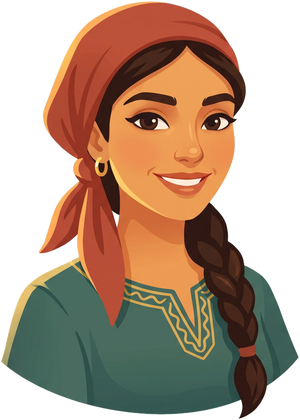
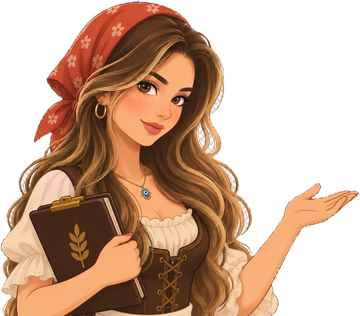
Swap in the new Defne artwork and make her walk-through readable
The art came in as a screenshot of a transparency preview, so the
checkerboard was baked into the pixels and there was no alpha to use. It is
keyed out on neutrality rather than brightness: the checker squares measure
a colour spread of 3, while even her white apron measures 75, so a
brightness test would have eaten the garment. The artwork's own
anti-aliased edge had already been blended onto that checkerboard before it
reached us, which no colour test can separate, so the alpha is eroded to
drop it — otherwise she is ringed in white on the dark card. Cropped below
the ledger, since the skirt and satchel are a smudge at the size she is
drawn, and the presenting hand and the ledger are the half worth keeping.

The walk-through itself was seven paragraphs. Each beat now leads with its
subject, so a player who knows what a market is can move on without
reading the sentence; the body is cut to two short ones; and the single
thing to actually do is lifted out and set in green under it, instead of
sitting in the middle of a paragraph. The dots that used to carry progress
read as decoration, so they are replaced by a plain "4 / 7" — a count says
how much is left outright.

Three new tests hold the shape: every title, line and instruction resolves
in both languages, no body creeps back over a paragraph's length, and
every beat after the welcome has something to do.

Verified: 224 tests, smoke clean in both languages on a fresh install and
a restored save.
[…]

diff --git a/town-economy/src/i18n/strings.ts b/town-economy/src/i18n/strings.ts
@@ -491,20 +491,28 @@ export const STRINGS = {
       next: "Devam",
       done: "Hadi başlayalım",
       skip: "Geç",
+      progress: "{current} / {total}",
+      greetTitle: "Hoş geldin!",
       greet:
-        "Hoş geldin, yeni başkanımız! Ben Defne, şu pazarın esnafıyım. Kasaba bugünden sonra sana emanet — gel, bir tur atalım.",
-      market:
-        "İşte Piyasa. Kasabanın bütün malları burada durur ve fiyatları her gün oynar. İşin özü tek cümle: ucuzken al.",
-      prices:
-        "Her malın yanındaki çizgi fiyatın nereye gittiğini söyler. Yeşilse yükseliyor, kırmızıysa düşüyor. Düşene bakacaksın.",
-      inventory:
-        "Aldıkların Envanter'de birikir. Kaça aldığını burada görürsün; pahalıyken satarsan aradaki fark senin kârın olur.",
-      inflation:
-        "Yukarıdaki enflasyon her gün her şeyi biraz pahalılaştırır. Kasada duran para bekledikçe erir — asıl rakibin o.",
-      trade:
-        "Kasaban büyüyünce burası, Ticaret açılır. Kervanlarını başka şehirlere yollar, oradaki yüksek fiyatlardan kazanırsın.",
-      handoff:
-        "Gerisini yaparak öğrenirsin. Ekrandaki İlk Adımlar seni tek tek yönlendirecek. Hadi, ilk alışverişini yap — ben buralardayım.",
+        "Ben Defne, şu pazarın esnafıyım. Kasaba bugünden sonra sana emanet. Gel, önce sana burayı göstereyim.",
+      marketTitle: "Piyasa",
+      market: "Kasabanın bütün malları burada durur ve fiyatları her gün değişir.",
+      marketTip: "Ucuzken al.",
+      pricesTitle: "Fiyatı okumak",
+      prices: "Her malın yanındaki çizgi fiyatın yönünü gösterir. Yeşil yükseliyor, kırmızı düşüyor demek.",
+      pricesTip: "Kırmızıya bak — o mal ucuzlamış demektir.",
+      inventoryTitle: "Envanter",
+      inventory: "Aldığın her şey burada birikir. Kaça aldığını da burada görürsün.",
+      inventoryTip: "Pahalıyken sat. Aradaki fark senin kârın.",
+      inflationTitle: "Enflasyon",
+      inflation: "En üstteki sayı. Her gün her şeyi biraz pahalılaştırır, kasanda duran para değer kaybeder.",
+      inflationTip: "Parayı bekletme, mala çevir.",
+      tradeTitle: "Ticaret",
+      trade: "Kasaban büyüyünce burası açılır. Kervanlarını başka şehirlere yollarsın.",
+      tradeTip: "Burada ucuza al, orada pahalıya sat.",
+      handoffTitle: "Sıra sende",
+      handoff: "Ekranın üstündeki İlk Adımlar seni tek tek yönlendirecek. Ben buralardayım.",
+      handoffTip: "Hadi, ilk alışverişini yap.",
     },
     tutorial: {
       next: "İleri",
@@ -1645,20 +1653,29 @@ export const STRINGS = {
       next: "Go on",
       done: "Let's begin",
       skip: "Skip",
+      progress: "{current} / {total}",
+      greetTitle: "Welcome!",
       greet:
-        "Welcome, our new mayor! I'm Defne, I keep a stall in the market. The town is yours from today — come, let me show you around.",
-      market:
-        "This is the Market. Every good in town sits here, and the prices move every day. The whole job in one sentence: buy while it's cheap.",
-      prices:
-        "The line beside each good tells you where its price is heading. Green is climbing, red is falling. Falling is the one you want.",
-      inventory:
-        "What you buy piles up in your Inventory. You can see what you paid here — sell it while it's dear, and the difference is yours.",
+        "I'm Defne, I keep a stall in the market. The town is yours from today. Come, let me show you around first.",
+      marketTitle: "The Market",
+      market: "Every good in town sits here, and the prices change every day.",
+      marketTip: "Buy while it's cheap.",
+      pricesTitle: "Reading a price",
+      prices: "The line beside each good shows which way its price is going. Green is up, red is down.",
+      pricesTip: "Look for red — that good just got cheaper.",
+      inventoryTitle: "Your Inventory",
+      inventory: "Everything you buy piles up here, along with what you paid for it.",
+      inventoryTip: "Sell while it's dear. The difference is your profit.",
+      inflationTitle: "Inflation",
       inflation:
-        "That inflation figure up top makes everything a little dearer each day. Money left sitting in the treasury melts away — that's your real rival.",
-      trade:
-        "Once your town grows, this opens up: Trade. You send caravans to other cities and earn on the higher prices there.",
-      handoff:
-        "The rest you'll learn by doing. First Steps on screen will walk you through it one at a time. Go on, make your first purchase — I'll be around.",
+        "The number at the very top. It makes everything a little dearer each day, and cash in your treasury loses value.",
+      inflationTip: "Don't sit on money — turn it into goods.",
+      tradeTitle: "Trade",
+      trade: "This opens as your town grows. You send caravans out to other cities.",
+      tradeTip: "Buy cheap here, sell dear there.",
+      handoffTitle: "Your turn",
+      handoff: "First Steps at the top of the screen will walk you through it one at a time. I'll be around.",
+      handoffTip: "Go on — make your first purchase.",
     },
     tutorial: {
       next: "Next",

diff --git a/town-economy/src/components/MentorCoach.tsx b/town-economy/src/components/MentorCoach.tsx
@@ -74,23 +74,40 @@ export function MentorCoach({ onNext, onSkip }: Props) {
 
         <View style={styles.row}>
           <View style={styles.portrait}>
-            <MentorPortrait size={84} />
+            <MentorPortrait size={112} />
           </View>
           <View style={styles.speech}>
-            <Text style={styles.name}>
-              {t("mentor.name")} <Text style={styles.role}>· {t("mentor.role")}</Text>
-            </Text>
+            {/* Who is talking, and how much of this is left. The dots that
+                used to carry progress were readable as decoration and not
+                as "two more of these" — a count says it outright. */}
+            <View style={styles.nameRow}>
+              <Text style={styles.name}>
+                {t("mentor.name")} <Text style={styles.role}>· {t("mentor.role")}</Text>
+              </Text>
+              <Text style={styles.progress}>
+                {t("mentor.progress", { current: index + 1, total: MENTOR_STEPS.length })}
+              </Text>
+            </View>
+
+            {/* Subject first. A player who already knows what a market is can
+                see this beat is about the market and press on without
+                reading the sentence. */}
+            <Text style={styles.title}>{t(step.titleKey)}</Text>
             <Text style={styles.text}>{t(step.textKey)}</Text>
+
+            {/* And the one thing to actually do, lifted out of the prose.
+                Every beat used to end with its instruction buried in the
+                middle of a paragraph. */}
+            {step.tipKey && (
+              <View style={styles.tipRow}>
+                <Text style={styles.tipMark}>▸</Text>
+                <Text style={styles.tip}>{t(step.tipKey)}</Text>
+              </View>
+            )}
           </View>
         </View>
 
         <View style={styles.footer}>
-          <View style={styles.dots}>
-            {MENTOR_STEPS.map((s, i) => (
-              <View key={s.id} style={[styles.dot, i === index && styles.dotActive]} />
-            ))}
-          </View>
-
           {!isLast && (
             <ScalePressable onPress={onSkip} style={styles.skipBtn} scaleTo={0.96}>
               <Text style={styles.skipText}>{t("mentor.skip")}</Text>
@@ -119,21 +136,36 @@ const styles = StyleSheet.create({
   row: { flexDirection: "row", alignItems: "flex-start" },
   // The portrait is bottom-cropped by the card's own overflow, which reads
   // as her leaning in over the edge rather than a sticker pasted on.
-  portrait: { marginRight: SPACING.sm + 2, marginTop: -2 },
+  portrait: { marginRight: SPACING.sm, marginTop: -2 },
   speech: { flex: 1 },
+  nameRow: { flexDirection: "row", alignItems: "baseline", justifyContent: "space-between" },
   name: {
     color: COLORS.accent,
-    fontSize: TYPE.label,
+    fontSize: TYPE.caption,
     fontWeight: WEIGHT.black,
     fontFamily: FONT.black,
-    marginBottom: 3,
   },
   role: { color: COLORS.textMuted, fontWeight: WEIGHT.regular, fontFamily: FONT.medium },
-  text: { color: COLORS.textPrimary, fontSize: TYPE.body, lineHeight: 19 },
-  footer: { flexDirection: "row", alignItems: "center", marginTop: SPACING.md },
-  dots: { flexDirection: "row", alignItems: "center", gap: 5, flex: 1 },
-  dot: { width: 6, height: 6, borderRadius: 3, backgroundColor: "#4a4032" },
-  dotActive: { backgroundColor: COLORS.accent, width: 16 },
+  progress: { color: COLORS.textMuted, fontSize: TYPE.micro, fontFamily: FONT.medium },
+  title: {
+    color: COLORS.textPrimary,
+    fontSize: TYPE.heading,
+    fontFamily: FONT.display,
+    marginTop: 4,
+    marginBottom: 3,
+  },
+  text: { color: COLORS.textMuted, fontSize: TYPE.label, lineHeight: 18 },
+  tipRow: { flexDirection: "row", alignItems: "flex-start", marginTop: 7 },
+  tipMark: { color: COLORS.positive, fontSize: TYPE.label, lineHeight: 18, marginRight: 5 },
+  tip: {
+    flex: 1,
+    color: COLORS.positive,
+    fontSize: TYPE.label,
+    lineHeight: 18,
+    fontWeight: WEIGHT.bold,
+    fontFamily: FONT.bold,
+  },
+  footer: { flexDirection: "row", alignItems: "center", justifyContent: "flex-end", marginTop: SPACING.sm },
   skipBtn: { paddingVertical: 8, paddingHorizontal: SPACING.sm, marginRight: SPACING.xs },
   skipText: { color: COLORS.textMuted, fontSize: TYPE.caption, fontFamily: FONT.medium },
   nextBtn: {

diff --git a/town-economy/src/economy/mentor.ts b/town-economy/src/economy/mentor.ts
@@ -2,8 +2,14 @@ import { ScreenId } from "../components/TabBar";
 
 export interface MentorStep {
   id: string;
+  /** the one-or-two word subject of this beat, so a player can see what it
+   * is about before reading a word of it */
+  titleKey: string;
   /** what she says, in the player's language */
   textKey: string;
+  /** the single thing to actually do, pulled out of the prose and set apart.
+   * Left out of the welcome and wherever there is nothing yet to act on. */
+  tipKey?: string;
   /** the tab this beat is about. The tour walks there itself, so the player
    * is looking at the real screen while she describes it — nothing is
    * explained against a picture of the game. Left out when the beat is
@@ -25,13 +31,48 @@ export interface MentorStep {
  * player cannot open yet is the thing this replaced.
  */
 export const MENTOR_STEPS: MentorStep[] = [
-  { id: "greet", textKey: "mentor.greet" },
-  { id: "market", textKey: "mentor.market", screen: "market" },
-  { id: "prices", textKey: "mentor.prices", screen: "market" },
-  { id: "inventory", textKey: "mentor.inventory", screen: "inventory" },
-  { id: "inflation", textKey: "mentor.inflation" },
-  { id: "trade", textKey: "mentor.trade", screen: "trade" },
-  { id: "handoff", textKey: "mentor.handoff", screen: "market" },
+  { id: "greet", titleKey: "mentor.greetTitle", textKey: "mentor.greet" },
+  {
+    id: "market",
+    titleKey: "mentor.marketTitle",
+    textKey: "mentor.market",
+    tipKey: "mentor.marketTip",
+    screen: "market",
+  },
+  {
+    id: "prices",
+    titleKey: "mentor.pricesTitle",
+    textKey: "mentor.prices",
+    tipKey: "mentor.pricesTip",
+    screen: "market",
+  },
+  {
+    id: "inventory",
+    titleKey: "mentor.inventoryTitle",
+    textKey: "mentor.inventory",
+    tipKey: "mentor.inventoryTip",
+    screen: "inventory",
+  },
+  {
+    id: "inflation",
+    titleKey: "mentor.inflationTitle",
+    textKey: "mentor.inflation",
+    tipKey: "mentor.inflationTip",
+  },
+  {
+    id: "trade",
+    titleKey: "mentor.tradeTitle",
+    textKey: "mentor.trade",
+    tipKey: "mentor.tradeTip",
+    screen: "trade",
+  },
+  {
+    id: "handoff",
+    titleKey: "mentor.handoffTitle",
+    textKey: "mentor.handoff",
+    tipKey: "mentor.handoffTip",
+    screen: "market",
+  },
 ];
 
 export const MENTOR_DONE = MENTOR_STEPS.length;

diff --git a/town-economy/src/economy/__tests__/interruptions.test.ts b/town-economy/src/economy/__tests__/interruptions.test.ts
@@ -112,14 +112,35 @@ describe("mentor script", () => {
   it("resolves every line in both languages", () => {
     for (const lang of LANGS) {
       for (const step of MENTOR_STEPS) {
-        const line = t(lang, step.textKey);
-        expect(line).not.toBe(step.textKey);
-        expect(line.length).toBeGreaterThan(20);
+        for (const key of [step.titleKey, step.textKey, step.tipKey]) {
+          if (!key) continue;
+          const line = t(lang, key);
+          expect(line).not.toBe(key);
+          expect(line.length).toBeGreaterThan(3);
+        }
       }
       for (const key of ["mentor.name", "mentor.role", "mentor.next", "mentor.done", "mentor.skip"]) {
         expect(t(lang, key)).not.toBe(key);
       }
+      expect(t(lang, "mentor.progress", { current: 2, total: 7 })).toContain("2");
     }
+  });
+
+  it("keeps every beat short enough to read at a glance", () => {
+    // The point of the rewrite: a title, two sentences and one instruction.
+    // A body that creeps back over this is a paragraph again.
+    for (const lang of LANGS) {
+      for (const step of MENTOR_STEPS) {
+        expect(t(lang, step.titleKey).length).toBeLessThanOrEqual(24);
+        expect(t(lang, step.textKey).length).toBeLessThanOrEqual(150);
+        if (step.tipKey) expect(t(lang, step.tipKey).length).toBeLessThanOrEqual(60);
+      }
+    }
+  });
+
+  it("gives every beat after the welcome something to do", () => {
+    expect(MENTOR_STEPS[0].tipKey).toBeUndefined();
+    for (const step of MENTOR_STEPS.slice(1)) expect(step.tipKey).toBeDefined();
   });
 
   it("starts by welcoming the player before naming any screen", () => {

diff --git a/town-economy/src/components/MentorPortrait.tsx b/town-economy/src/components/MentorPortrait.tsx
@@ -21,9 +21,9 @@ interface Props {
  * brightness: her eye whites and teeth are as bright as the paper, and a
  * plain threshold punched holes through them.
  */
-const ASPECT = 420 / 300;
+const ASPECT = 316 / 360;
 
-export function MentorPortrait({ size = 84 }: Props) {
+export function MentorPortrait({ size = 112 }: Props) {
   return (
     <Image
       source={defneSource}
